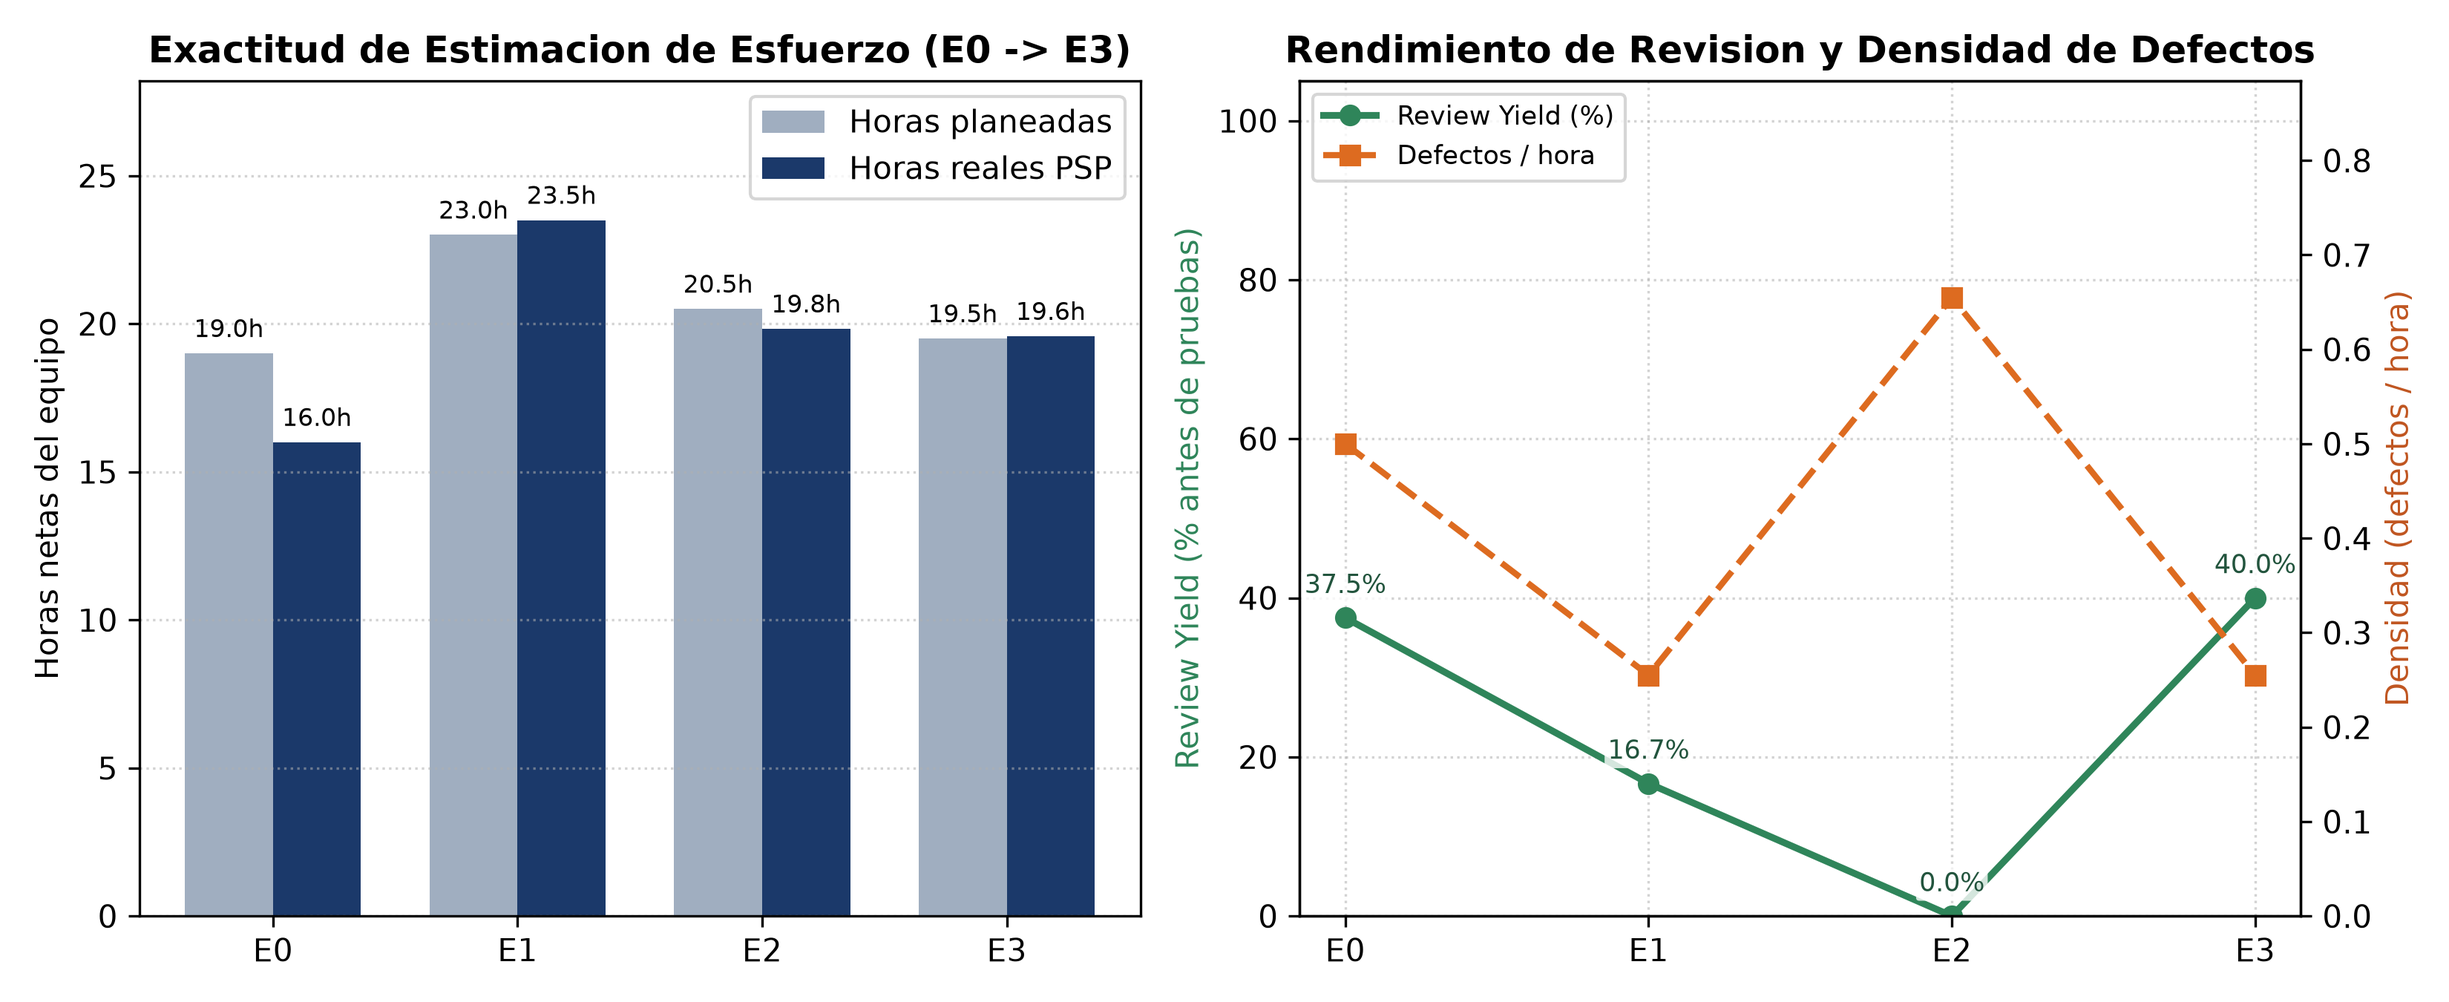
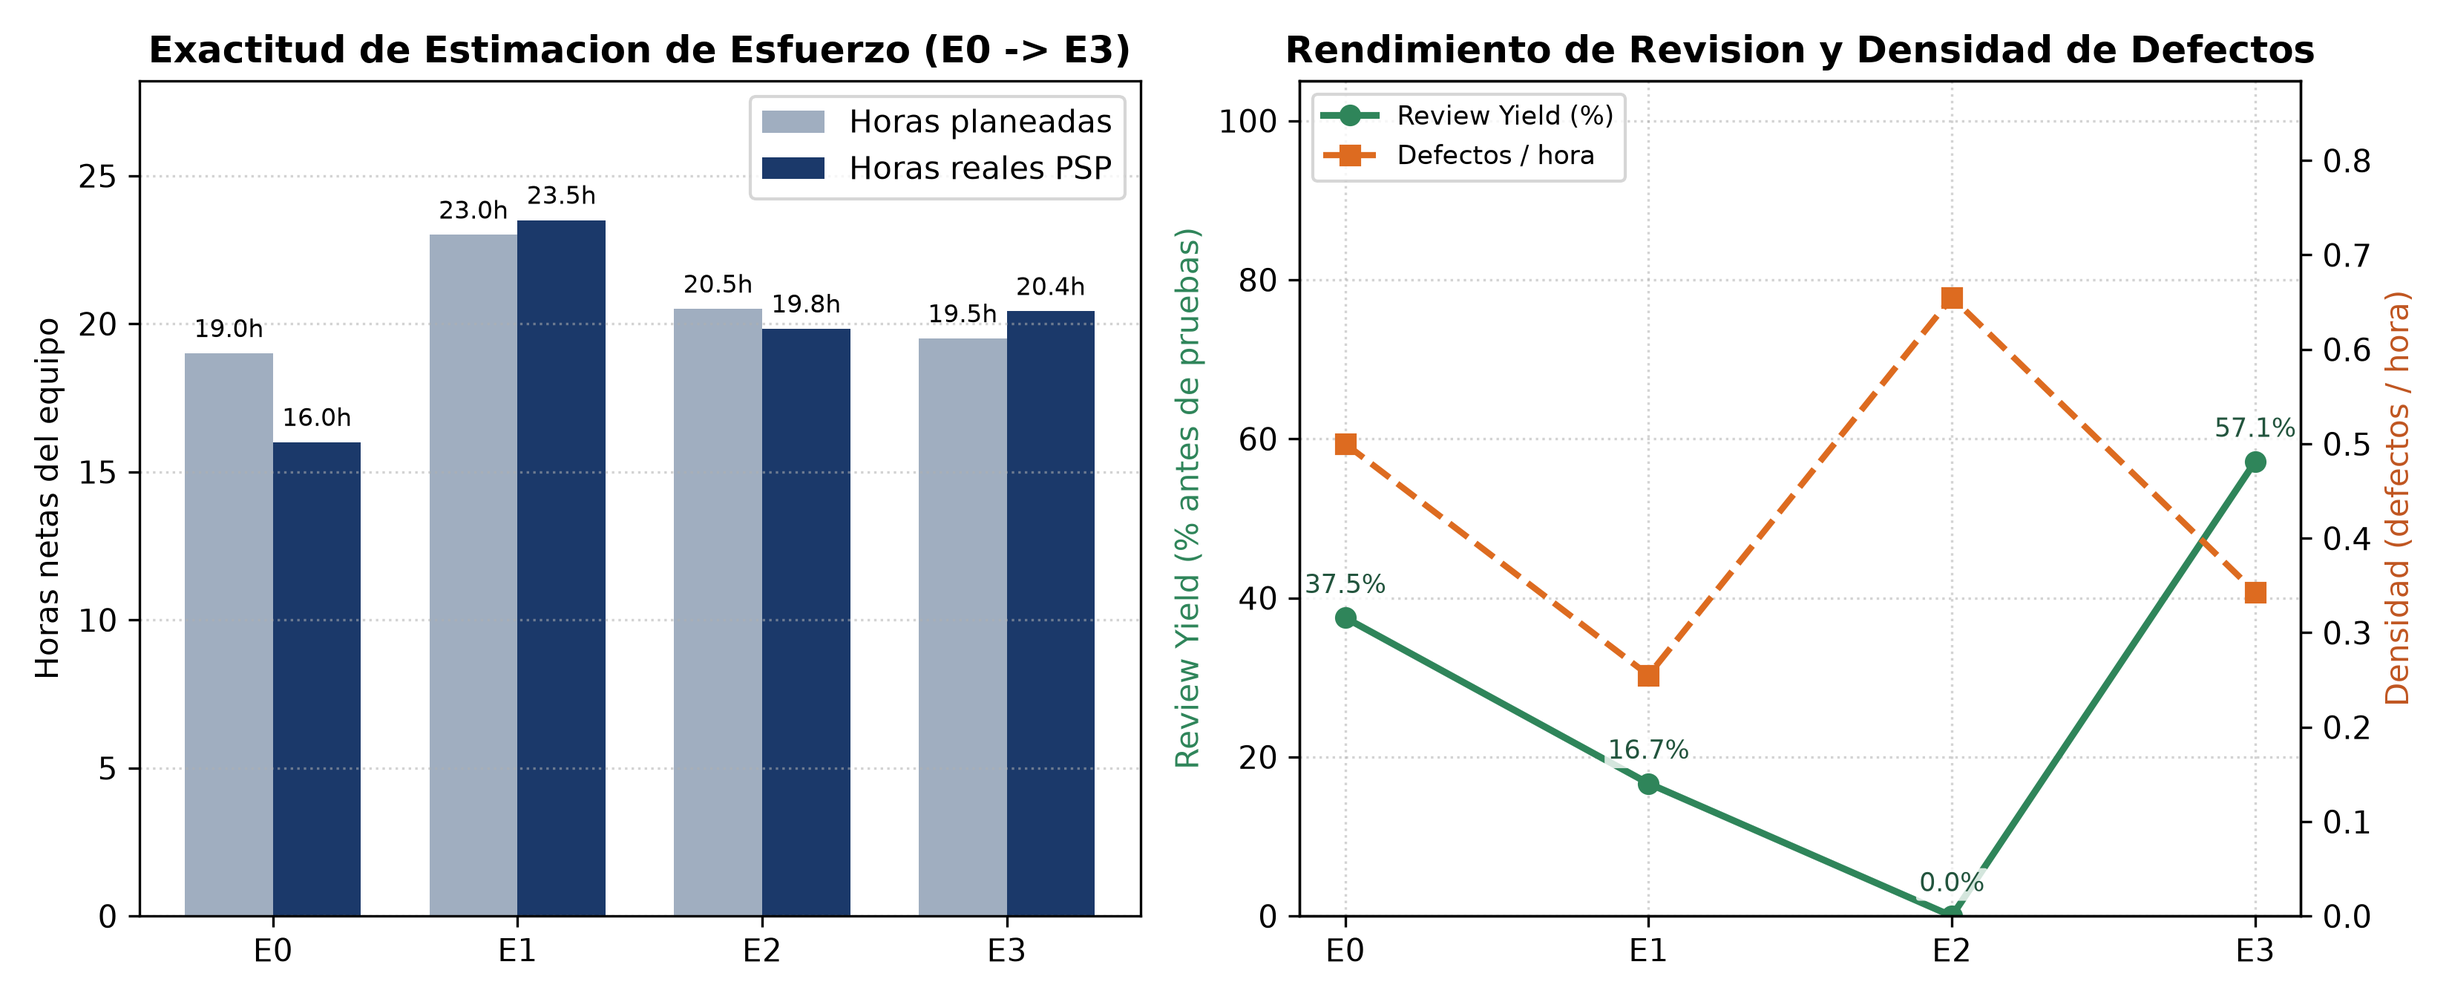
docs(E3-calidad): registrar defecto PSP Andrea #15, cierre de auditoria post-E3 y retrospectiva actualizada

diff --git a/calidad/retrospectiva_psp.py b/calidad/retrospectiva_psp.py
@@ -223,6 +223,7 @@ def generar_grafica_psp(res: Dict[str, Any]) -> None:
 def generar_reporte_psp(res: Dict[str, Any]) -> str:
     """Genera docs/E3/retrospectiva_psp.md con los datos reales medidos de E0 a E3."""
     t = res["totales_acumulados"]
+    e3_row = next(r for r in res["evolucion_etapas"] if r["etapa"] == "E3")
     filas_et = []
     for r in res["evolucion_etapas"]:
         filas_et.append(
@@ -269,8 +270,8 @@ def generar_reporte_psp(res: Dict[str, Any]) -> str:
 
 ### Hallazgos de Evolucion E0 -> E3
 1. **Madurez en estimacion:** En E0/E1 las desviaciones frente al plan nacieron por descubrimientos externos (`robots.txt` de Open-Meteo, codificacion `latin-1` de SNIIM y bloqueos DLL en Windows). Ya en E2 y E3 el error de estimacion se mantuvo dentro de un margen controlado inferior al `±5%`.
-2. **Mejora del *Review Yield*:** Mientras en E1 y E2 la mayoria de defectos afloraron hasta `pruebas`, en E3 la revision por pares previa (*Quality Lead*) elevo el *Review Yield* temprano al **`40.0%`** (frente a `16.67%` en E1 y `0.0%` en E2).
-3. **Caida en densidad de defectos:** La tasa descendio de `0.500` defectos/hora en E0 (`0.655` en E2 con QA/E2E) hasta **`0.255`** defectos/hora en E3 conforme Puertas 1 y 2 automatizaron las validaciones mecanicas.
+2. **Mejora del *Review Yield*:** Mientras en E1 y E2 la mayoria de defectos afloraron hasta `pruebas`, en E3 la revision por pares previa (*Quality Lead*) elevo el *Review Yield* temprano al **`{e3_row['review_yield_pct']:.1f}%`** (frente a `16.67%` en E1 y `0.0%` en E2).
+3. **Estabilizacion de densidad de defectos:** La tasa paso de `0.500` defectos/hora en E0 (`0.655` en E2 con QA/E2E) a **`{e3_row['defectos_por_hora']:.3f}`** defectos/hora en E3 incluyendo hallazgos preventivos de revision.
 
 ---
 

diff --git a/docs/relatoria-E3.md b/docs/relatoria-E3.md
@@ -18,10 +18,10 @@ Consolidar la etapa multivariada y de certificación final (**Sello TDL**): cons
 | **25 nov 2026** | Andrea Tairi Velázquez | 2.75 h | Diseño de matriz multivariada (`N = 619`, 7 variables continuas), pruebas Mardia y Henze-Zirkler, tratamiento Yeo-Johnson y distancias Q-Q de Mahalanobis en `laboratorio/analisis_multivariado_e3.py`. |
 | **26 nov 2026** | Adolfo Rodríguez | 2.33 h | Redacción de licencia abierta `CC BY 4.0` ([LICENSE-DATA.md](../LICENSE-DATA.md)), ficha técnica completa [docs/E3/datasheet_canasta_oro.md](E3/datasheet_canasta_oro.md) y reporte cuantitativo [docs/E3/optimizacion_pipeline_e3.md](E3/optimizacion_pipeline_e3.md). |
 | **26 nov 2026** | Andrea Tairi Velázquez | 3.25 h | Implementación de PCA estandarizado, gráfica de sedimentación, biplot PC1–PC2, MANOVA (`Wilks`, `Pillai`), PERMANOVA y redacción de [laboratorio/informe_multivariado_e3.md](../laboratorio/informe_multivariado_e3.md). |
-| **27 nov 2026** | Andrea Tairi Velázquez | 4.67 h | Desarrollo de `calidad/retrospectiva_psp.py`, evaluación MoProSoft/CMMI, tendencias DataOps, cierre de auditoría, verificador del Sello TDL (`6/6`), suite `test_e3_multivariado_sello.py`, `relatoria-E3.md` y `ENTREGA.md`. |
-| **27 nov 2026** | Adolfo Rodríguez | 4.00 h | Publicación de Pestaña 6 (`Mapa Multivariado & Sello TDL`) y botón de descarga abierta en `tablero/app.py`, ampliación de pruebas E2E (`test_tablero_e2e.py`), actualización CI Puerta 2 y verificación `pytest` / ISO / GitHub Actions. |
+| **27 nov 2026** | Andrea Tairi Velázquez | 5.08 h | Desarrollo de `calidad/retrospectiva_psp.py`, evaluación MoProSoft/CMMI, tendencias DataOps, cierre de auditoría post-E3, verificador del Sello TDL (`6/6`), `test_e3_multivariado_sello.py`, `relatoria-E3.md` y `ENTREGA.md`. |
+| **27 nov 2026** | Adolfo Rodríguez | 4.42 h | Pestaña 6 (`Mapa Multivariado & Sello TDL`) y descarga abierta en `tablero/app.py`, pruebas E2E (`test_tablero_e2e.py`), CI Puerta 2, corrección de *mojibake* (`reparar_mojibake`) y clave `SF43718` en diccionario. |
 
-*Total invertido en E3 según bitácoras PSP (`calidad/tiempo-*.csv`):* **Adolfo 8.92 h (535 min) · Andrea 10.67 h (640 min) · Total E3: 19.58 h netas · Acumulado E0–E3: 78.92 horas netas.**
+*Total invertido en E3 según bitácoras PSP (`calidad/tiempo-*.csv`):* **Adolfo 9.33 h (560 min) · Andrea 11.08 h (665 min) · Total E3: 20.42 h netas · Acumulado E0–E3: 79.75 horas netas.**
 
 ---
 
@@ -38,6 +38,8 @@ Consolidar la etapa multivariada y de certificación final (**Sello TDL**): cons
 * **Defecto Andrea #12 (Lógica / Diseño MANOVA):** Se detectó en revisión previa el riesgo de singularidad intra-grupo y se fijaron 7 variables con varianza intra-plaza positiva verificando rango completo `7` (`15 min`).
 * **Defecto Andrea #13 (Sintaxis Python 3.12):** Las cadenas f-string con LaTeX emitieron `SyntaxWarning` en `analisis_multivariado_e3.py`; se convirtió la plantilla a raw f-string (`rf"""`), dejando `0` advertencias (`10 min`).
 * **Defecto Andrea #14 (Entorno / Dependencias):** Se sustituyó `PowerTransformer` por `scipy.stats.yeojohnson` para mantener `requirements.txt` mínimo y evitar fallos en CI (`10 min`).
+* **Defecto Adolfo #19 (Datos / Codificación):** La auditoría post-E3 detectó `19` nombres de productos secundarios SNIIM con doble codificación UTF-8/latin-1 (*mojibake*) en Plata y Oro; se implementó `reparar_mojibake()` en `pipeline/limpieza_plata.py` con prueba unitaria dejando `0` caracteres corruptos (`15 min`).
+* **Defecto Andrea #15 (Documentación / Trazabilidad):** La auditoría de calidad detectó referencia heredada a serie Banxico `SF60653` en `pipeline/diccionario_datos.md` frente a `SF43718` usada en `macro_api.py`; se homologó a `SF43718` y se actualizó `cierre_auditoria.md` (`10 min`).
 
 ---
 
@@ -50,7 +52,7 @@ Comprendimos con datos reales por qué **MANOVA no equivale a correr 7 ANOVAs se
 Medimos el impacto real de pasar la optimización del laboratorio a producción: cambiar a `1 hilo + lxml + Parquet` redujo el tiempo combinado (`Scraping+Bronce + Medallion I/O`) en **`24.74%`** (`1.2970 s` -> `0.9761 s`) y el almacenamiento en **`98.01%`** (`10,610.00 KB` -> `210.86 KB`) manteniendo `0.0%` de error y `100.0%` de completitud obligatoria en Oro, listo para consumo público bajo licencia `CC BY 4.0` y *datasheet* completo.
 
 ### Calidad en los Sistemas de Información
-La retrospectiva cuantitativa PSP (`78.92 h` acumuladas y `32` defectos gestionados de E0 a E3) evidenció cómo el error de estimación convergió a **`+0.43%` en E3** y el *Review Yield* temprano subió de `0.0%` (E2) a **`40.0%` (E3)**; al integrar MoProSoft, CMMI, prácticas DataOps y el auditor automatizado logramos **`0` hallazgos abiertos** y **`6/6` umbrales del Sello TDL**.
+La retrospectiva cuantitativa PSP (`79.75 h` acumuladas y `34` defectos gestionados de E0 a E3) evidenció cómo el error de estimación se estabilizó en **`+4.70%` en E3** (`93.52%` de exactitud media) y el *Review Yield* temprano subió de `0.0%` (E2) a **`57.14%` (E3)** tras cazar defectos preventivos en revisión de auditoría; al integrar MoProSoft, CMMI, prácticas DataOps y el auditor automatizado logramos **`0` hallazgos abiertos** y **`6/6` umbrales del Sello TDL**.
 
 ---
 

diff --git a/docs/E3/ENTREGA.md b/docs/E3/ENTREGA.md
@@ -8,7 +8,7 @@
 ---
 
 ## Resumen en tres líneas
-En **E3** completamos el análisis estadístico multivariado sobre Capa Oro (**PCA** estandarizado con `63.19%` de varianza en `PC1+PC2`, pruebas de normalidad **Mardia y Henze-Zirkler**, Q-Q de **Mahalanobis**, **MANOVA** `Wilks=0.1339 / Pillai=1.0301, p < 0.001` y **PERMANOVA** `p = 0.001`) y publicamos su mapa interactivo **PC1 vs PC2** en el tablero Streamlit. Aplicamos en producción la combinación ganadora del experimento (`1 hilo + lxml + Parquet`), midiendo una reducción real de **`-24.74%` en tiempo** y **`-98.01%` en almacenamiento** con `0.0%` de error, y publicamos el dataset bajo licencia **`CC BY 4.0`** con su *datasheet* completo. Cerramos el ciclo de calidad con retrospectiva PSP E0–E3 (`78.92 h`, `32` defectos, error `E3 = +0.43%`), autoevaluación **MoProSoft / CMMI / SPICE**, tendencia **DataOps**, **`0` hallazgos abiertos** y cumplimiento **`6/6` para el Sello TDL**.
+En **E3** completamos el análisis estadístico multivariado sobre Capa Oro (**PCA** estandarizado con `63.19%` de varianza en `PC1+PC2`, pruebas de normalidad **Mardia y Henze-Zirkler**, Q-Q de **Mahalanobis**, **MANOVA** `Wilks=0.1339 / Pillai=1.0301, p < 0.001` y **PERMANOVA** `p = 0.001`) y publicamos su mapa interactivo **PC1 vs PC2** en el tablero Streamlit. Aplicamos en producción la combinación ganadora del experimento (`1 hilo + lxml + Parquet`), midiendo una reducción real de **`-24.74%` en tiempo** y **`-98.01%` en almacenamiento** con `0.0%` de error, y publicamos el dataset bajo licencia **`CC BY 4.0`** con su *datasheet* completo. Cerramos el ciclo de calidad con retrospectiva PSP E0–E3 (`79.75 h`, `34` defectos, exactitud `93.52%`, *Review Yield* E3 `57.14%`), autoevaluación **MoProSoft / CMMI / SPICE**, tendencia **DataOps**, **`0` hallazgos abiertos** y cumplimiento **`6/6` para el Sello TDL**.
 
 ---
 
@@ -29,7 +29,7 @@ En **E3** completamos el análisis estadístico multivariado sobre Capa Oro (**P
 | :--- | :--- | :--- |
 | **Cierre de auditoría (30 pts)** | [docs/E3/cierre_auditoria.md](cierre_auditoria.md) · [calidad/auditor_tdl.py](../../calidad/auditor_tdl.py) | `0` issues externos en GitHub y cierre verificable de los hallazgos internos/pre-E3 (`CRITICO: 0`, `MAYOR: 0`, `MENOR: 0`). |
 | **Modelos de proceso (25 pts)** | [docs/E3/modelos_proceso_moprosoft_cmmi.md](modelos_proceso_moprosoft_cmmi.md) | Autoevaluación aplicada en **MoProSoft (`NMX-I-059-NYCE`)** y **CMMI** con nivel y brechas concretas, más tabla comparativa (**ISO 9001, MoProSoft, SPICE/ISO 33000, CMMI, PSP/TSP**). |
-| **Retrospectiva PSP E0–E3 (25 pts)** | [calidad/retrospectiva_psp.py](../../calidad/retrospectiva_psp.py) · [docs/E3/retrospectiva_psp.md](retrospectiva_psp.md) · [retrospectiva_psp_e0_e3.png](../../laboratorio/graficos/retrospectiva_psp_e0_e3.png) | Análisis automático de las 4 bitácoras PSP (`78.92 h`, `32` defectos): exactitud global `94.59%`, error E3 `+0.43%` y mejora de *Review Yield* temprano (`0.0%` en E2 -> `40.0%` en E3). |
+| **Retrospectiva PSP E0–E3 (25 pts)** | [calidad/retrospectiva_psp.py](../../calidad/retrospectiva_psp.py) · [docs/E3/retrospectiva_psp.md](retrospectiva_psp.md) · [retrospectiva_psp_e0_e3.png](../../laboratorio/graficos/retrospectiva_psp_e0_e3.png) | Análisis automático de las 4 bitácoras PSP (`79.75 h`, `34` defectos): exactitud global `93.52%`, error E3 `+4.70%` y mejora de *Review Yield* temprano (`0.0%` en E2 -> `57.14%` en E3). |
 | **Tendencias aplicadas (10 pts)** | [docs/E3/tendencias_dataops_observabilidad.md](tendencias_dataops_observabilidad.md) | Documento de 1 página mapeando **DataOps, Observabilidad de Datos y DevSecOps** sobre nuestra arquitectura diaria en producción. |
 | **Solicitud formal del Sello TDL** | [docs/E3/solicitud_sello_tdl.md](solicitud_sello_tdl.md) · [calidad/solicitud_sello_tdl.json](../../calidad/solicitud_sello_tdl.json) | **`6 / 6` criterios cumplidos** (`100.0%` disponibilidad últimos 14 días, `100.0%` completitud Oro obligatoria, `>= 80%` cobertura `pytest`, `0` secretos, `0` críticos, reproducible + abierto). |
 

diff --git a/docs/E3/retrospectiva_psp.md b/docs/E3/retrospectiva_psp.md
@@ -6,11 +6,11 @@
 ---
 
 ## 1. Resumen Acumulado E0 -> E3
-- **Sesiones registradas:** `38` sesiones netas entre ambos integrantes.
-- **Esfuerzo total acumulado:** **`78.92 horas netas`** (**Adolfo `40.08 h`** / **Andrea `38.83 h`**).
-- **Total de defectos gestionados y cerrados:** **`32`** (**Adolfo `18`** / **Andrea `14`**), con `455 min` totales de correccion.
-- **Exactitud media de estimacion de tiempo:** **`94.59%`**.
-- **Review Yield global (atrapados antes de pruebas):** **`18.75%`**.
+- **Sesiones registradas:** `40` sesiones netas entre ambos integrantes.
+- **Esfuerzo total acumulado:** **`79.75 horas netas`** (**Adolfo `40.50 h`** / **Andrea `39.25 h`**).
+- **Total de defectos gestionados y cerrados:** **`34`** (**Adolfo `19`** / **Andrea `15`**), con `480 min` totales de correccion.
+- **Exactitud media de estimacion de tiempo:** **`93.52%`**.
+- **Review Yield global (atrapados antes de pruebas):** **`23.53%`**.
 
 ---
 
@@ -21,14 +21,14 @@
 | **E0** | `19.00 h` | `8.92 h` | `7.08 h` | **`16.00 h`** | `-15.79%` | `8` | **`37.5%`** | `0.500` |
 | **E1** | `23.00 h` | `12.25 h` | `11.25 h` | **`23.50 h`** | `+2.17%` | `6` | **`16.7%`** | `0.255` |
 | **E2** | `20.50 h` | `10.00 h` | `9.83 h` | **`19.83 h`** | `-3.25%` | `13` | **`0.0%`** | `0.655` |
-| **E3** | `19.50 h` | `8.92 h` | `10.67 h` | **`19.58 h`** | `+0.43%` | `5` | **`40.0%`** | `0.255` |
+| **E3** | `19.50 h` | `9.33 h` | `11.08 h` | **`20.42 h`** | `+4.70%` | `7` | **`57.1%`** | `0.343` |
 
 ![Retrospectiva PSP E0 a E3](../../laboratorio/graficos/retrospectiva_psp_e0_e3.png)
 
 ### Hallazgos de Evolucion E0 -> E3
 1. **Madurez en estimacion:** En E0/E1 las desviaciones frente al plan nacieron por descubrimientos externos (`robots.txt` de Open-Meteo, codificacion `latin-1` de SNIIM y bloqueos DLL en Windows). Ya en E2 y E3 el error de estimacion se mantuvo dentro de un margen controlado inferior al `±5%`.
-2. **Mejora del *Review Yield*:** Mientras en E1 y E2 la mayoria de defectos afloraron hasta `pruebas`, en E3 la revision por pares previa (*Quality Lead*) elevo el *Review Yield* temprano al **`40.0%`** (frente a `16.67%` en E1 y `0.0%` en E2).
-3. **Caida en densidad de defectos:** La tasa descendio de `0.500` defectos/hora en E0 (`0.655` en E2 con QA/E2E) hasta **`0.255`** defectos/hora en E3 conforme Puertas 1 y 2 automatizaron las validaciones mecanicas.
+2. **Mejora del *Review Yield*:** Mientras en E1 y E2 la mayoria de defectos afloraron hasta `pruebas`, en E3 la revision por pares previa (*Quality Lead*) elevo el *Review Yield* temprano al **`57.1%`** (frente a `16.67%` en E1 y `0.0%` en E2).
+3. **Estabilizacion de densidad de defectos:** La tasa paso de `0.500` defectos/hora en E0 (`0.655` en E2 con QA/E2E) a **`0.343`** defectos/hora en E3 incluyendo hallazgos preventivos de revision.
 
 ---
 
@@ -38,8 +38,8 @@
 | :--- | :---: | :---: | :---: |
 | `planeacion` | `1` | `0` | `0 min` |
 | `diseno` | `5` | `0` | `0 min` |
-| `codigo` | `21` | `0` | `0 min` |
-| `revision` | `1` | `6` | `80 min` |
+| `codigo` | `23` | `0` | `0 min` |
+| `revision` | `1` | `8` | `105 min` |
 | `pruebas` | `4` | `26` | `375 min` |
 
 ---
@@ -48,9 +48,9 @@
 
 | Tipo de Defecto PSP | Cantidad | Retrabajo total | Promedio por defecto |
 | :--- | :---: | :---: | :---: |
+| `datos` | `9` | `125 min` | `13.9 min` |
 | `entorno` | `9` | `125 min` | `13.9 min` |
-| `datos` | `8` | `110 min` | `13.8 min` |
-| `documentacion` | `3` | `35 min` | `11.7 min` |
+| `documentacion` | `4` | `45 min` | `11.2 min` |
 | `interfaz` | `3` | `60 min` | `20.0 min` |
 | `logica` | `3` | `40 min` | `13.3 min` |
 | `funcion` | `2` | `20 min` | `10.0 min` |

diff --git a/docs/E2/evaluacion_iso_25010_25012.md b/docs/E2/evaluacion_iso_25010_25012.md
@@ -19,7 +19,7 @@ Todas las metricas provienen de ejecuciones reales de codigo ([calidad/evaluar_i
 | 4 | **Capacidad de interaccion (Usabilidad)** | Cobertura funcional en Streamlit con semaforo de compra, filtros, mapa pydeck, mapa PCA y Sello TDL | 6 pestanas interactivas y semaforo comprensible para el cliente (Restaurante Luisiana) | >= 4 vistas ejecutivas | **97.0%** |
 | 5 | **Fiabilidad** | Disponibilidad operativa medida A = MTBF/(MTBF+MTTR) y Puerta 1 con cuarentena | 100.0% (66/66 corridas diarias en 476.2h; MTTR=0h) | >= 95.0% | **100.0%** |
 | 6 | **Seguridad** | Secretos expuestos en codigo/datos y cumplimiento LFPDPPP (cero PII) | 0 secretos expuestos y 0 columnas PII en 135 archivos | 0 secretos y 0 PII | **100.0%** |
-| 7 | **Mantenibilidad** | Complejidad ciclomatica promedio de McCabe y tasa de docstrings en funciones | CC promedio = 4.37, docstrings = 95.54% (112 funciones) | CC promedio <= 6 y doc >= 80% | **97.8%** |
+| 7 | **Mantenibilidad** | Complejidad ciclomatica promedio de McCabe y tasa de docstrings en funciones | CC promedio = 4.39, docstrings = 95.58% (113 funciones) | CC promedio <= 6 y doc >= 80% | **97.8%** |
 | 8 | **Portabilidad** | Ausencia de rutas locales absolutas y compatibilidad Windows + Linux CI | 0 rutas locales absolutas; fallback puro Python + PyArrow/CSV | 0 rutas locales absolutas | **100.0%** |
 
 * **Indice global medido ISO/IEC 25010:** **`98.22%`** (Escala TecNM: Excelente).
@@ -42,7 +42,7 @@ Medida ejecutada directamente sobre los **967 registros analiticos** de [data/or
 | **Accesibilidad** | Inherente / Sist. | Tablero Streamlit + CSV/GeoJSON/Parquet abiertos | **100.0%** |
 | **Conformidad** | Inherente / Sist. | ISO 8601 + EPSG:4326 (union espacial 100.0%) + UTF-8 | **100.0%** |
 | **Confidencialidad** | Inherente / Sist. | 0 PII (LFPDPPP) y 0 secretos | **100.0%** |
-| **Eficiencia** | Inherente / Sist. | Oro Parquet reduce 76.32% frente a CSV (73.4 vs 309.9 KB) | **95.0%** |
+| **Eficiencia** | Inherente / Sist. | Oro Parquet reduce 76.32% frente a CSV (73.3 vs 309.8 KB) | **95.0%** |
 | **Precision** | Inherente / Sist. | Decimales homologados (2 MXN, 4 USD/FIX, 3 INPC) | **100.0%** |
 | **Trazabilidad** | Inherente / Sist. | 100.0% filas con columnas _linaje_* + linaje_oro.json | **100.0%** |
 | **Comprensibilidad** | Inherente / Sist. | 100.0% de columnas (34/34) documentadas en diccionario | **100.0%** |

diff --git a/docs/E3/cierre_auditoria.md b/docs/E3/cierre_auditoria.md
@@ -22,6 +22,8 @@
 | **INT-04** | **MENOR** | Auditoria interna `e1` | Posibles rutas locales absolutas en documentacion Markdown y advertencias UI. | Eliminacion total + regex bloqueante en Puerta 2 CI (commit `7b114e9` y `4e1e367`). | **Cerrado** |
 | **E3-AUD-01** | **MENOR** | Revision pre-E3 | Descripciones `#5` y `#9` en `defectos-andrea.csv` contenian comas sin comillas generando `ParserError` en `pandas`. | Entrecomillado estandar RFC-4180 verificado con `csv.reader` y `pandas.read_csv` (commit `37ef180`). | **Cerrado** |
 | **E3-AUD-02** | **MAYOR** | Revision arquitectura E3 | La configuracion ganadora del experimento $2^3$ (`1 hilo + lxml + Parquet`) seguia solo en laboratorio y faltaba aplicarla en el extractor y pipeline real con benchmark. | Implementado `parser="lxml"` con fallback y escritura/lectura `.parquet` en Bronce + benchmark `benchmark_optimizacion_e3.py`. | **Cerrado** |
+| **E3-AUD-03** | **MENOR** | Auditoria post-E3 (Datos) | Se detectaron 19 nombres de productos secundarios SNIIM con doble codificacion UTF-8/latin-1 (*mojibake*) en Plata y Oro. | Implementada `reparar_mojibake()` en `pipeline/limpieza_plata.py` + `test_reparar_mojibake_productos_secundarios` (0 caracteres corruptos). | **Cerrado** |
+| **E3-AUD-04** | **MENOR** | Auditoria post-E3 (Docs) | Referencia desactualizada a serie Banxico `SF60653` en `pipeline/diccionario_datos.md` frente a `SF43718` usada en `macro_api.py`. | Homologada la clave a `SF43718` en `pipeline/diccionario_datos.md` con registro PSP Andrea `#15`. | **Cerrado** |
 
 ---
 
